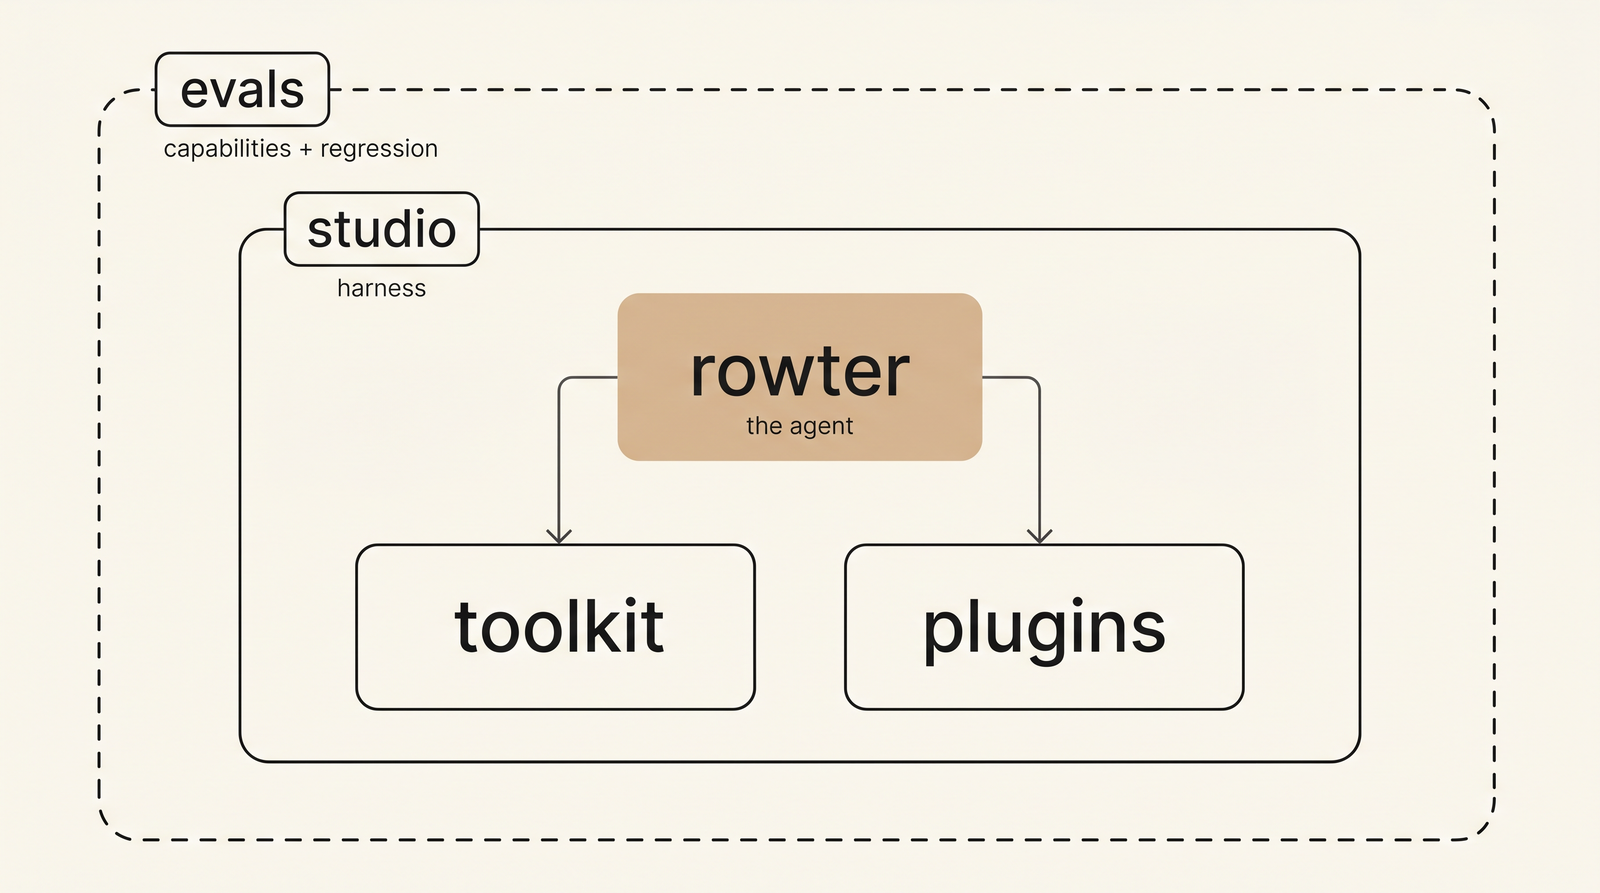
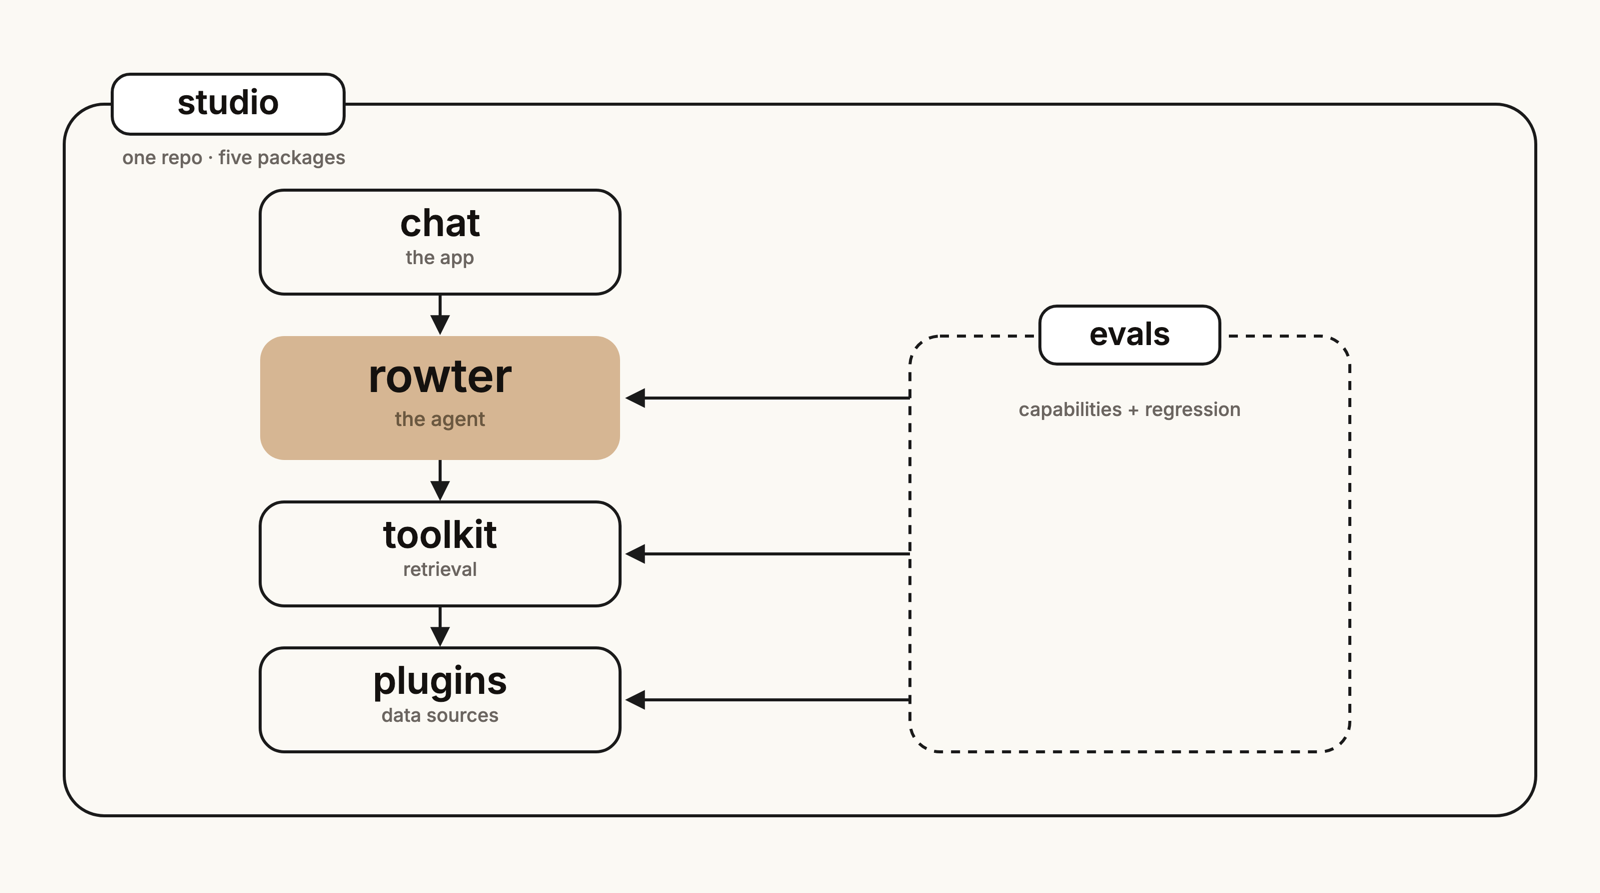
Update org profile: regenerate architecture diagram + tighten README
Regenerate profile/assets/architecture.png for the post-consolidation
monorepo layout: studio is now the container (one repo, five packages),
the dependency stack runs chat -> rowter -> toolkit -> plugins, and evals
sits beside it depending on the bottom three. Reuses the original cream/ink
palette, Inter/Fraunces type, and the flat tan rowter accent.

README: reflect the new structure (chat added; studio as the single repo),
then a Socratic dedupe/format pass -- split the intro into two paragraphs
and drop the five-package roster from the 'how it fits' prose, since the
diagram and the repository bullet already carry it.

diff --git a/profile/README.md b/profile/README.md
@@ -2,21 +2,23 @@
   <img src="assets/header.svg" alt="Rowter" width="100%">
 </div>
 
-**Rowter is an open-source agent for telecom work** — across standards, commercial frameworks, fraud and security, and the systems that sit on top. It grounds answers in cited sources, then reasons past them when they run thin and labels what it couldn't cite. It remembers what you work on, and turns your own files into a living wiki it keeps current. Each data source it draws on is a plugin — a body of documents plus the tools to search it. The plugins it ships with cover the standards bodies (3GPP, O-RAN, CAMARA, GSMA) and a catalog of open-source telecom software, and you can add your own. It runs on your machine; your data stays private.
+**Rowter is an open-source agent for telecom work** — across standards, commercial frameworks, fraud and security, and the systems that sit on top. It grounds answers in cited sources, then reasons past them when they run thin and labels what it couldn't cite. It remembers what you work on, and turns your own files into a living wiki it keeps current.
+
+Each data source it draws on is a plugin — a body of documents plus the tools to search it. The plugins it ships with cover the standards bodies (3GPP, O-RAN, CAMARA, GSMA) and a catalog of open-source telecom software, and you can add your own. It runs on your machine; your data stays private.
 
 → **Start here: [`studio`](https://github.com/rawrter/studio)** — clone, run one command, start chatting. *No API key needed to boot.*
 
 ## How it fits together
 
 <div align="center">
-  <img src="assets/architecture.png" alt="studio contains rowter, toolkit, plugins, and evals" width="100%">
+  <img src="assets/architecture.png" alt="studio is one repo containing five packages — chat, rowter, toolkit, plugins, and evals" width="100%">
 </div>
 
-**rowter** is the agent. **studio** is the app you run it in — and the single repo that contains everything: the agent runtime, retrieval layer, plugins, and evals, all with full history.
+**rowter** is the agent. **studio** is the single repo that contains everything — five packages in one uv workspace, all with full history. The arrows are dependency direction: each package imports only what sits below it, and the evals suite sits beside the stack.
 
 ## The repository
 
-- **[studio](https://github.com/rawrter/studio)** — *everything is here.* The app, the agent (`rowter/`), the retrieval layer (`toolkit/`), the plugin manifests (`plugins/`), and the Inspect-AI evaluation suite (`evals/`). One command to boot.
+- **[studio](https://github.com/rawrter/studio)** — *everything is here.* The app (`chat/`), the agent (`rowter/`), the retrieval layer (`toolkit/`), the plugin manifests (`plugins/`), and the Inspect-AI evaluation suite (`evals/`). One command to boot.
 
 ## Open source
 
